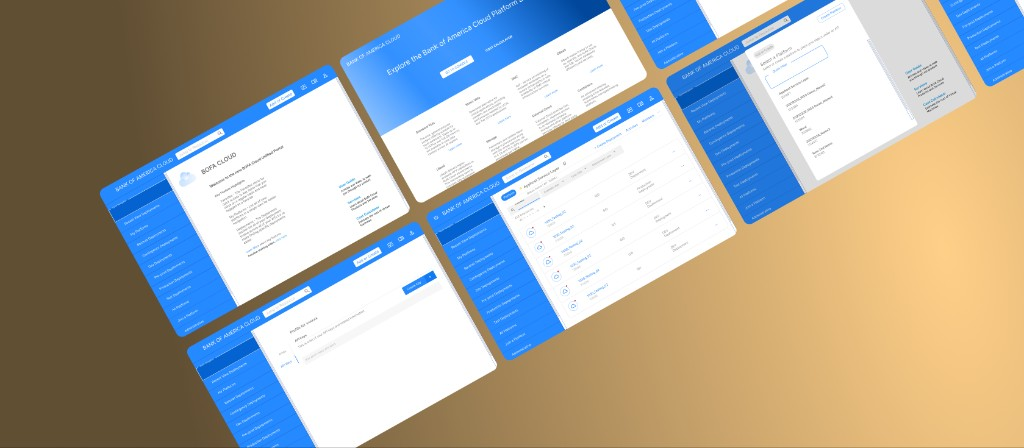
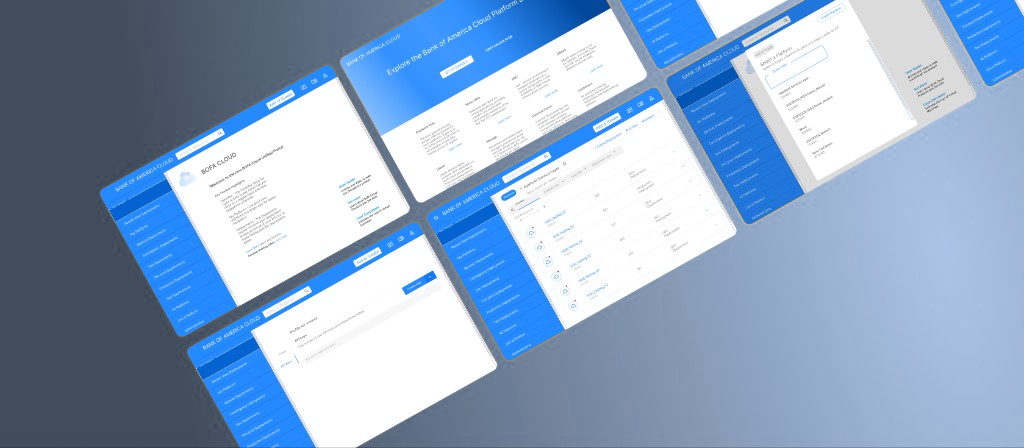
BofA Cloud: add component-sheet hero + slate demo backgrounds
- Stack a second hero under the BofA Cloud platform shot: lavender UI
  component sheet (bofa-cloud-components.jpg, downscaled to 2200px/94KB)
- Recolor cloud-solution1/2.png backgrounds from gold to a slate
  blue-gray gradient, preserving shadows and edges

diff --git a/src/components/KatesWebsiteV2.tsx b/src/components/KatesWebsiteV2.tsx
@@ -51,7 +51,7 @@ const projects: Project[] = [
     title: "BofA Cloud",
     description:
       "Cloud infrastructure platform serving 4,000+ internal applications — design lead in a team of 35.",
-    images: ["/bofa-cloud-hero.png"],
+    images: ["/bofa-cloud-hero.png", "/bofa-cloud-components.jpg"],
     reflection: [
       "Over three-plus years steering UX for a private cloud platform serving 4,000+ internal applications, I learned to treat design as product intelligence. I moved the team from static mockups to daily automated reporting — which changed my relationship with leadership, shifting every conversation from subjective aesthetics to objective product health.",
       "Establishing a baseline before each release let me quantify the ROI of design decisions, and proving a positive shift in feature click rates became the most effective tool for stakeholder buy-in. Working this close to infrastructure taught me technical empathy: a good design is only as good as its implementation, so I synced directly with engineers in Git and HTML to keep complex flows functional in production.",
